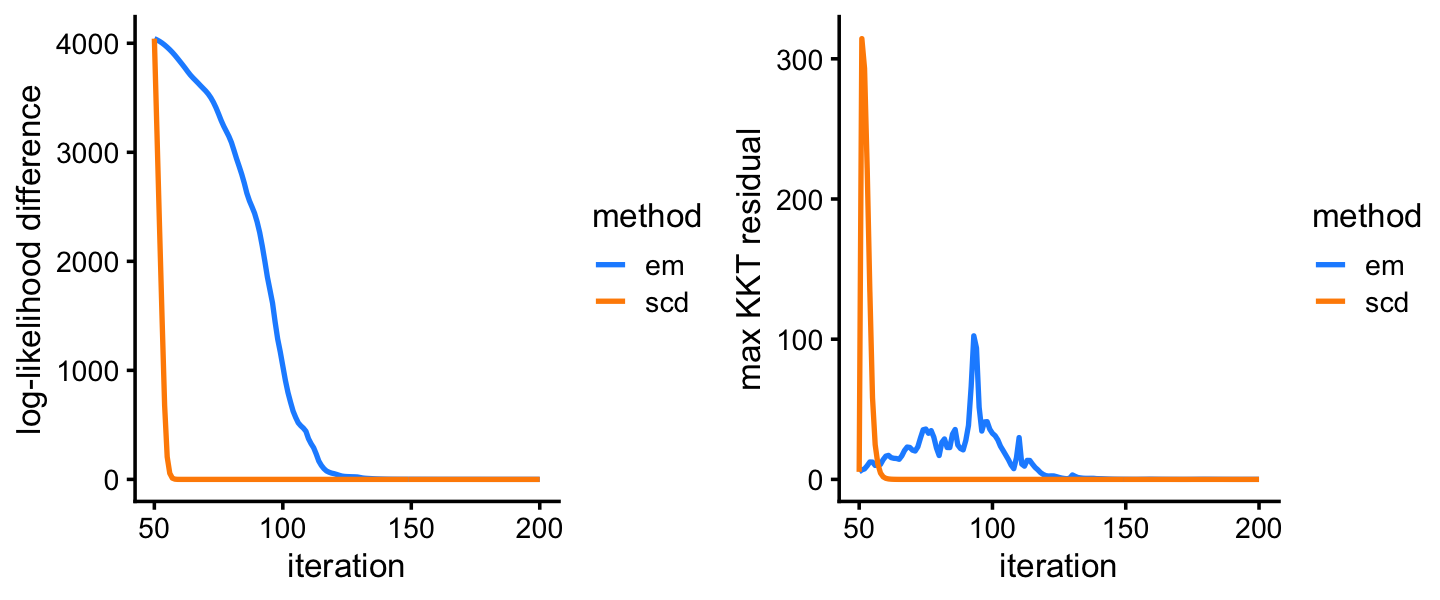
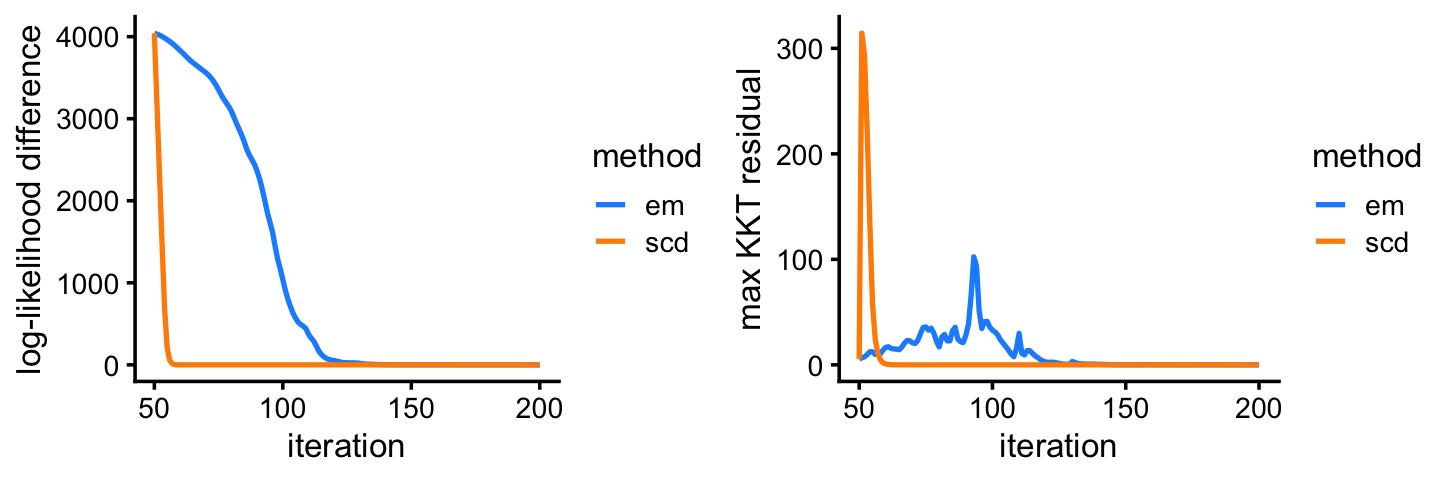
Build site.

diff --git a/docs/smallsim.html b/docs/smallsim.html
@@ -414,16 +414,16 @@ This reproducible <a href="http://rmarkdown.rstudio.com">R Markdown</a> analysis
 <div class="panel panel-default">
 <div class="panel-heading">
 <p class="panel-title">
-<a data-toggle="collapse" data-parent="#workflowr-checks" href="#strongRepositoryversionstrongahrefhttpsgithubcomstephenslabfastTopicsexperimentstreeeb495f3a50511b8ddfb7837e72bf8246e0c6dd85targetblankeb495f3a"> <span class="glyphicon glyphicon-ok text-success" aria-hidden="true"></span> <strong>Repository version:</strong> <a href="https://github.com/stephenslab/fastTopics-experiments/tree/eb495f3a50511b8ddfb7837e72bf8246e0c6dd85" target="_blank">eb495f3</a> </a>
+<a data-toggle="collapse" data-parent="#workflowr-checks" href="#strongRepositoryversionstrongahrefhttpsgithubcomstephenslabfastTopicsexperimentstree1b18e2d2fbef4f0a76bd5fed0ce686b5e278591dtargetblank1b18e2da"> <span class="glyphicon glyphicon-ok text-success" aria-hidden="true"></span> <strong>Repository version:</strong> <a href="https://github.com/stephenslab/fastTopics-experiments/tree/1b18e2d2fbef4f0a76bd5fed0ce686b5e278591d" target="_blank">1b18e2d</a> </a>
 </p>
 </div>
[2 lines of base64/hex data omitted]
 <div class="panel-body">
 <p>
 Great! You are using Git for version control. Tracking code development and connecting the code version to the results is critical for reproducibility.
 </p>
 <p>
-The results in this page were generated with repository version <a href="https://github.com/stephenslab/fastTopics-experiments/tree/eb495f3a50511b8ddfb7837e72bf8246e0c6dd85" target="_blank">eb495f3</a>. See the <em>Past versions</em> tab to see a history of the changes made to the R Markdown and HTML files.
+The results in this page were generated with repository version <a href="https://github.com/stephenslab/fastTopics-experiments/tree/1b18e2d2fbef4f0a76bd5fed0ce686b5e278591d" target="_blank">1b18e2d</a>. See the <em>Past versions</em> tab to see a history of the changes made to the R Markdown and HTML files.
 </p>
 <p>
 Note that you need to be careful to ensure that all relevant files for the analysis have been committed to Git prior to generating the results (you can use <code>wflow_publish</code> or <code>wflow_git_commit</code>). workflowr only checks the R Markdown file, but you know if there are other scripts or data files that it depends on. Below is the status of the Git repository when the results were generated:
@@ -472,6 +472,40 @@ Message
 </tr>
 </thead>
 <tbody>
+<tr>
+<td>
+Rmd
+</td>
+<td>
+<a href="https://github.com/stephenslab/fastTopics-experiments/blob/1b18e2d2fbef4f0a76bd5fed0ce686b5e278591d/analysis/smallsim.Rmd" target="_blank">1b18e2d</a>
+</td>
+<td>
+Peter Carbonetto
+</td>
+<td>
+2021-03-09
+</td>
+<td>
+workflowr::wflow_publish(“smallsim.Rmd”)
+</td>
+</tr>
+<tr>
+<td>
+html
+</td>
+<td>
+<a href="https://rawcdn.githack.com/stephenslab/fastTopics-experiments/47ed42528e47fe3c678d410d38d0d9785d0ae054/docs/smallsim.html" target="_blank">47ed425</a>
+</td>
+<td>
+Peter Carbonetto
+</td>
+<td>
+2021-03-09
+</td>
+<td>
+Added KKT residual plots to “smallsim” example.
+</td>
+</tr>
 <tr>
 <td>
 Rmd
@@ -1210,6 +1244,17 @@ Date
 <tbody>
 <tr>
 <td>
+<a href="https://github.com/stephenslab/fastTopics-experiments/blob/47ed42528e47fe3c678d410d38d0d9785d0ae054/docs/figure/smallsim.Rmd/plot-progress-1-1.png" target="_blank">47ed425</a>
+</td>
+<td>
+Peter Carbonetto
+</td>
+<td>
+2021-03-09
+</td>
+</tr>
+<tr>
+<td>
 <a href="https://github.com/stephenslab/fastTopics-experiments/blob/907adddb3dee41410e261fd9869bbe798b3a748d/docs/figure/smallsim.Rmd/plot-progress-1-1.png" target="_blank">907addd</a>
 </td>
 <td>
@@ -1333,6 +1378,17 @@ Date
 </tr>
 </thead>
 <tbody>
+<tr>
+<td>
+<a href="https://github.com/stephenslab/fastTopics-experiments/blob/47ed42528e47fe3c678d410d38d0d9785d0ae054/docs/figure/smallsim.Rmd/loadings-scatterplot-1-1.png" target="_blank">47ed425</a>
+</td>
+<td>
+Peter Carbonetto
+</td>
+<td>
+2021-03-09
+</td>
+</tr>
 <tr>
 <td>
 <a href="https://github.com/stephenslab/fastTopics-experiments/blob/907adddb3dee41410e261fd9869bbe798b3a748d/docs/figure/smallsim.Rmd/loadings-scatterplot-1-1.png" target="_blank">907addd</a>
@@ -1486,7 +1542,7 @@ p3 &lt;- ggplot(pdat,aes(x = iter,y = loglik,color = method)) +
 p4 &lt;- ggplot(pdat,aes(x = iter,y = res,color = method)) +
   geom_line(size = 0.75) +
   scale_color_manual(values = c(&quot;dodgerblue&quot;,&quot;darkorange&quot;,&quot;magenta&quot;)) +
-  ylim(0,25) +
+  ylim(0,10) +
   labs(x = &quot;iteration&quot;,y = &quot;max KKT residual&quot;) +
   theme_cowplot(font_size = 10)
 plot_grid(p3,p4)</code></pre>
@@ -1513,6 +1569,17 @@ Date
 </tr>
 </thead>
 <tbody>
+<tr>
+<td>
+<a href="https://github.com/stephenslab/fastTopics-experiments/blob/47ed42528e47fe3c678d410d38d0d9785d0ae054/docs/figure/smallsim.Rmd/plot-progress-2-1.png" target="_blank">47ed425</a>
+</td>
+<td>
+Peter Carbonetto
+</td>
+<td>
+2021-03-09
+</td>
+</tr>
 <tr>
 <td>
 <a href="https://github.com/stephenslab/fastTopics-experiments/blob/a967f97bafc1ce31fecbc7b461ffebbd8ae0d6cc/docs/figure/smallsim.Rmd/plot-progress-2-1.png" target="_blank">a967f97</a>
@@ -1640,6 +1707,17 @@ Date
 <tbody>
 <tr>
 <td>
+<a href="https://github.com/stephenslab/fastTopics-experiments/blob/47ed42528e47fe3c678d410d38d0d9785d0ae054/docs/figure/smallsim.Rmd/loadings-scatterplot-2-1.png" target="_blank">47ed425</a>
+</td>
+<td>
+Peter Carbonetto
+</td>
+<td>
+2021-03-09
+</td>
+</tr>
+<tr>
+<td>
 <a href="https://github.com/stephenslab/fastTopics-experiments/blob/907adddb3dee41410e261fd9869bbe798b3a748d/docs/figure/smallsim.Rmd/loadings-scatterplot-2-1.png" target="_blank">907addd</a>
 </td>
 <td>
@@ -1709,6 +1787,17 @@ Date
 </tr>
 </thead>
 <tbody>
+<tr>
+<td>
+<a href="https://github.com/stephenslab/fastTopics-experiments/blob/47ed42528e47fe3c678d410d38d0d9785d0ae054/docs/figure/smallsim.Rmd/likelihood-scatterplot-1.png" target="_blank">47ed425</a>
+</td>
+<td>
+Peter Carbonetto
+</td>
+<td>
+2021-03-09
+</td>
+</tr>
 <tr>
 <td>
 <a href="https://github.com/stephenslab/fastTopics-experiments/blob/300faac4599c1d36307e46e46546b26a437646b5/docs/figure/smallsim.Rmd/likelihood-scatterplot-1.png" target="_blank">300faac</a>
